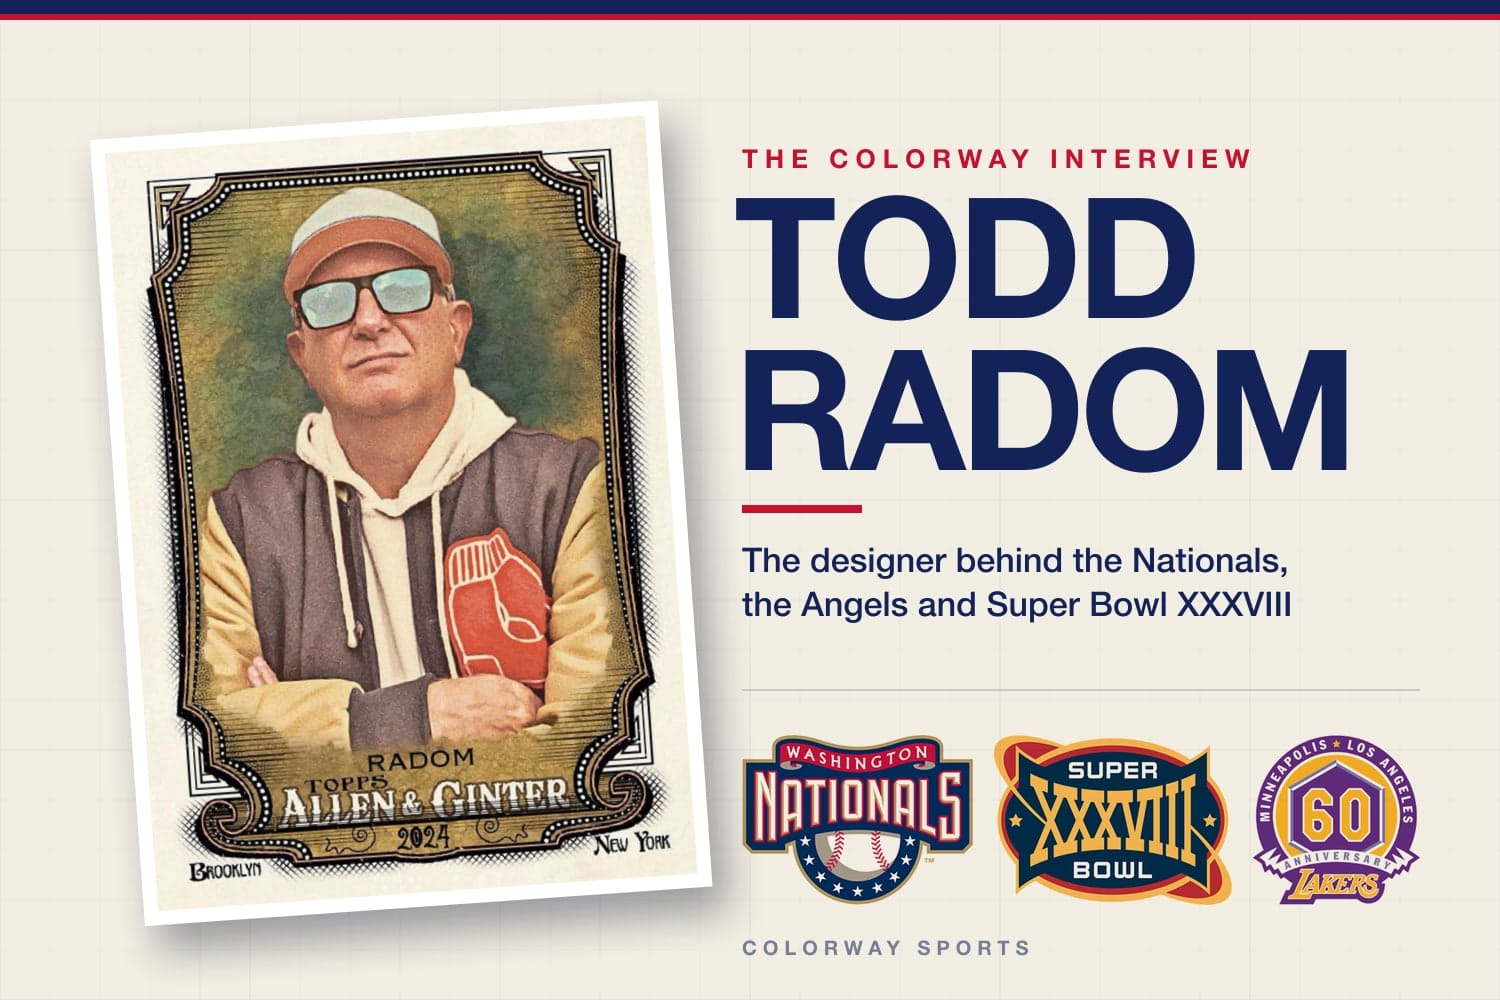
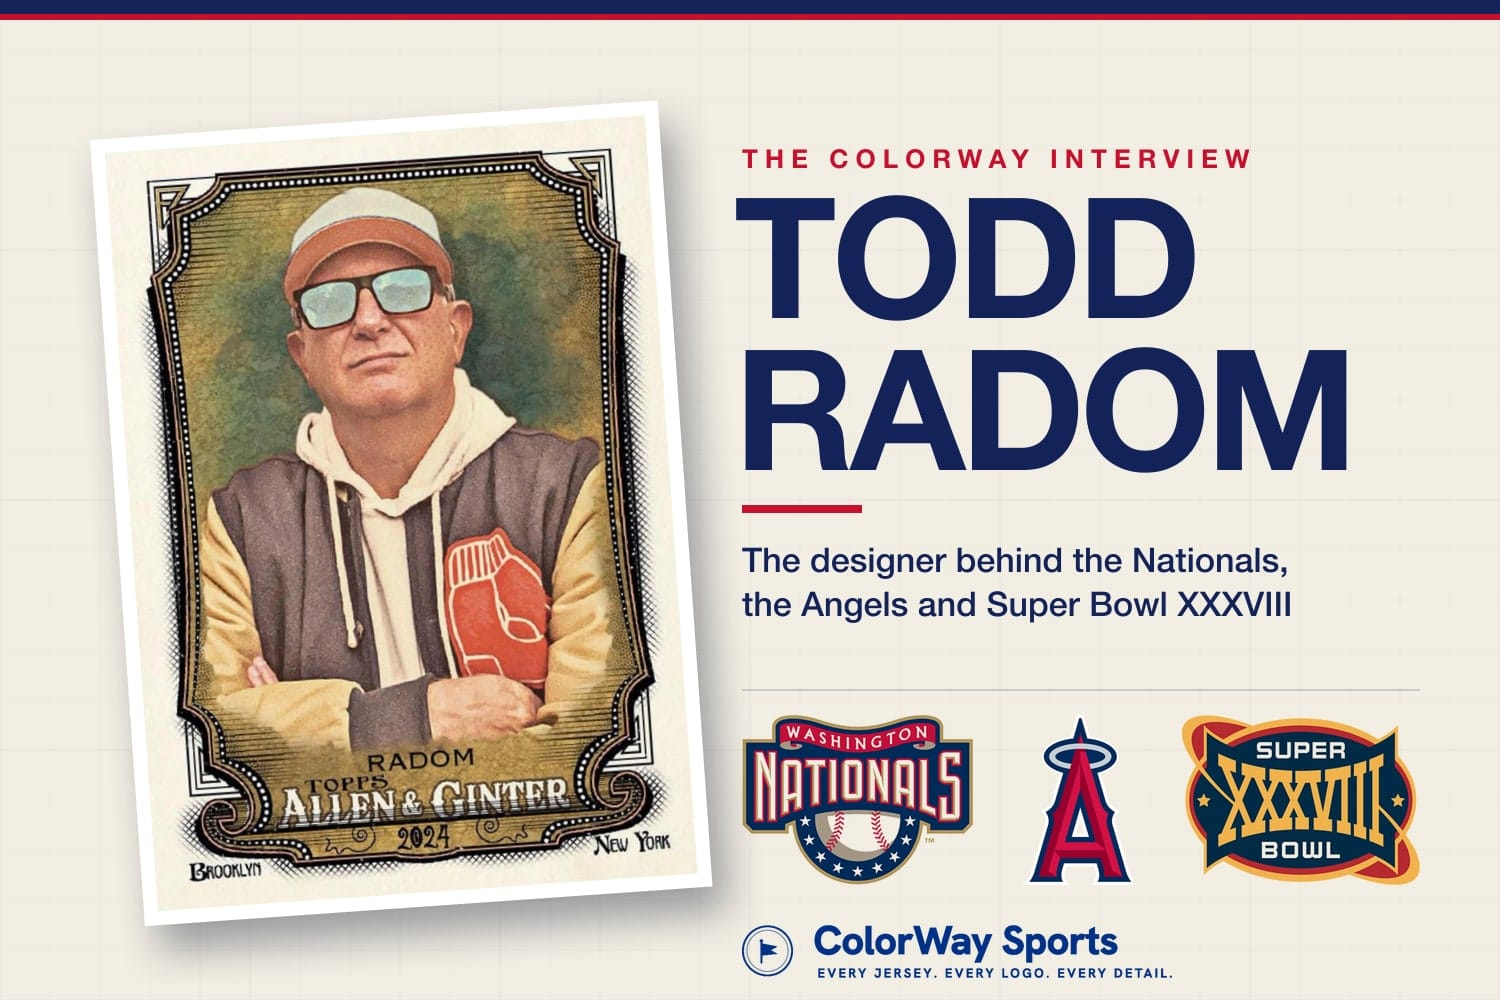
Todd Radom cover: Angels A replaces Lakers 60th, ColorWay wordmark lockup (still held for Todd's OK)

Changed region(s): [[0.4907, 0.713, 0.9507, 0.992]]

diff --git a/content/posts/todd-radom-interview-sports-logo-design.md b/content/posts/todd-radom-interview-sports-logo-design.md
@@ -13,7 +13,7 @@ teams: []
 ---
 
 <div style="margin: 0 0 1.5em;">
-  <img src="/images/posts/todd-radom-interview/cover.jpg" alt="Sports logo designer Todd Radom on his Topps Allen and Ginter card, with his Washington Nationals, Super Bowl XXXVIII and Lakers 60th anniversary logos" style="width: 100%; border-radius: 10px; display: block;" />
+  <img src="/images/posts/todd-radom-interview/cover.jpg" alt="Sports logo designer Todd Radom on his Topps Allen and Ginter card, with his Washington Nationals, Los Angeles Angels and Super Bowl XXXVIII logos" style="width: 100%; border-radius: 10px; display: block;" />
   <p style="text-align: center; font-size: 0.75em; color: #999; margin-top: 0.5em;">Card and logos via Todd Radom (toddradom.com)</p>
 </div>
 
